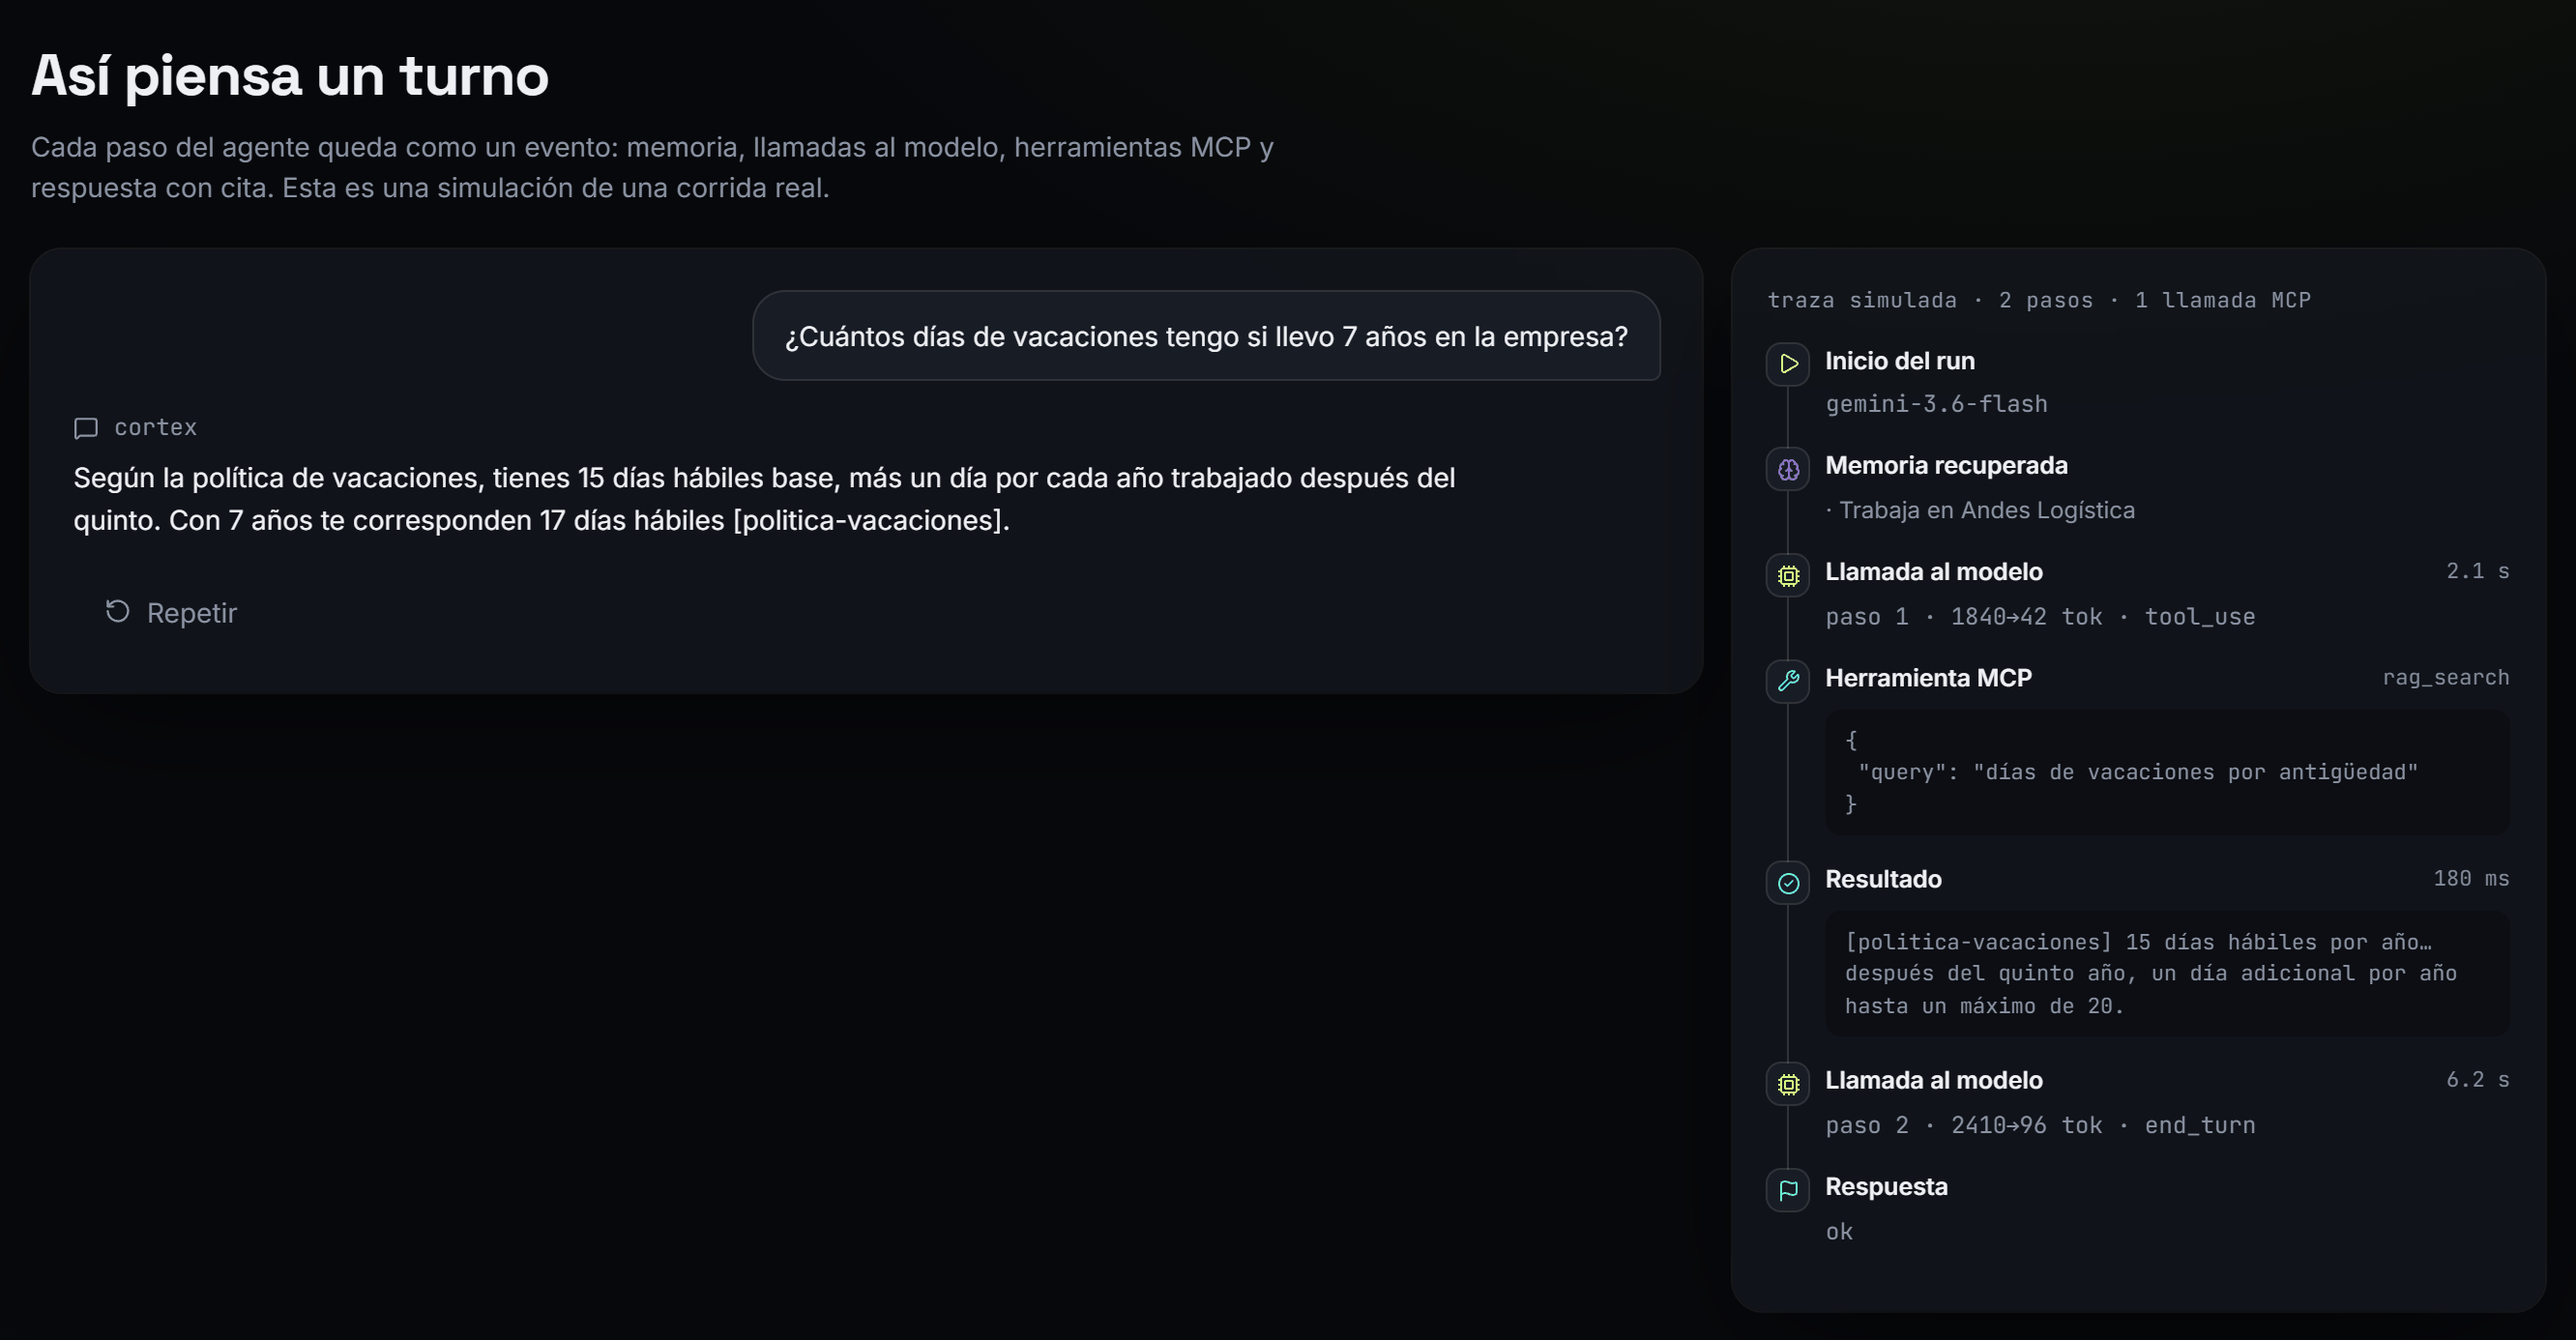
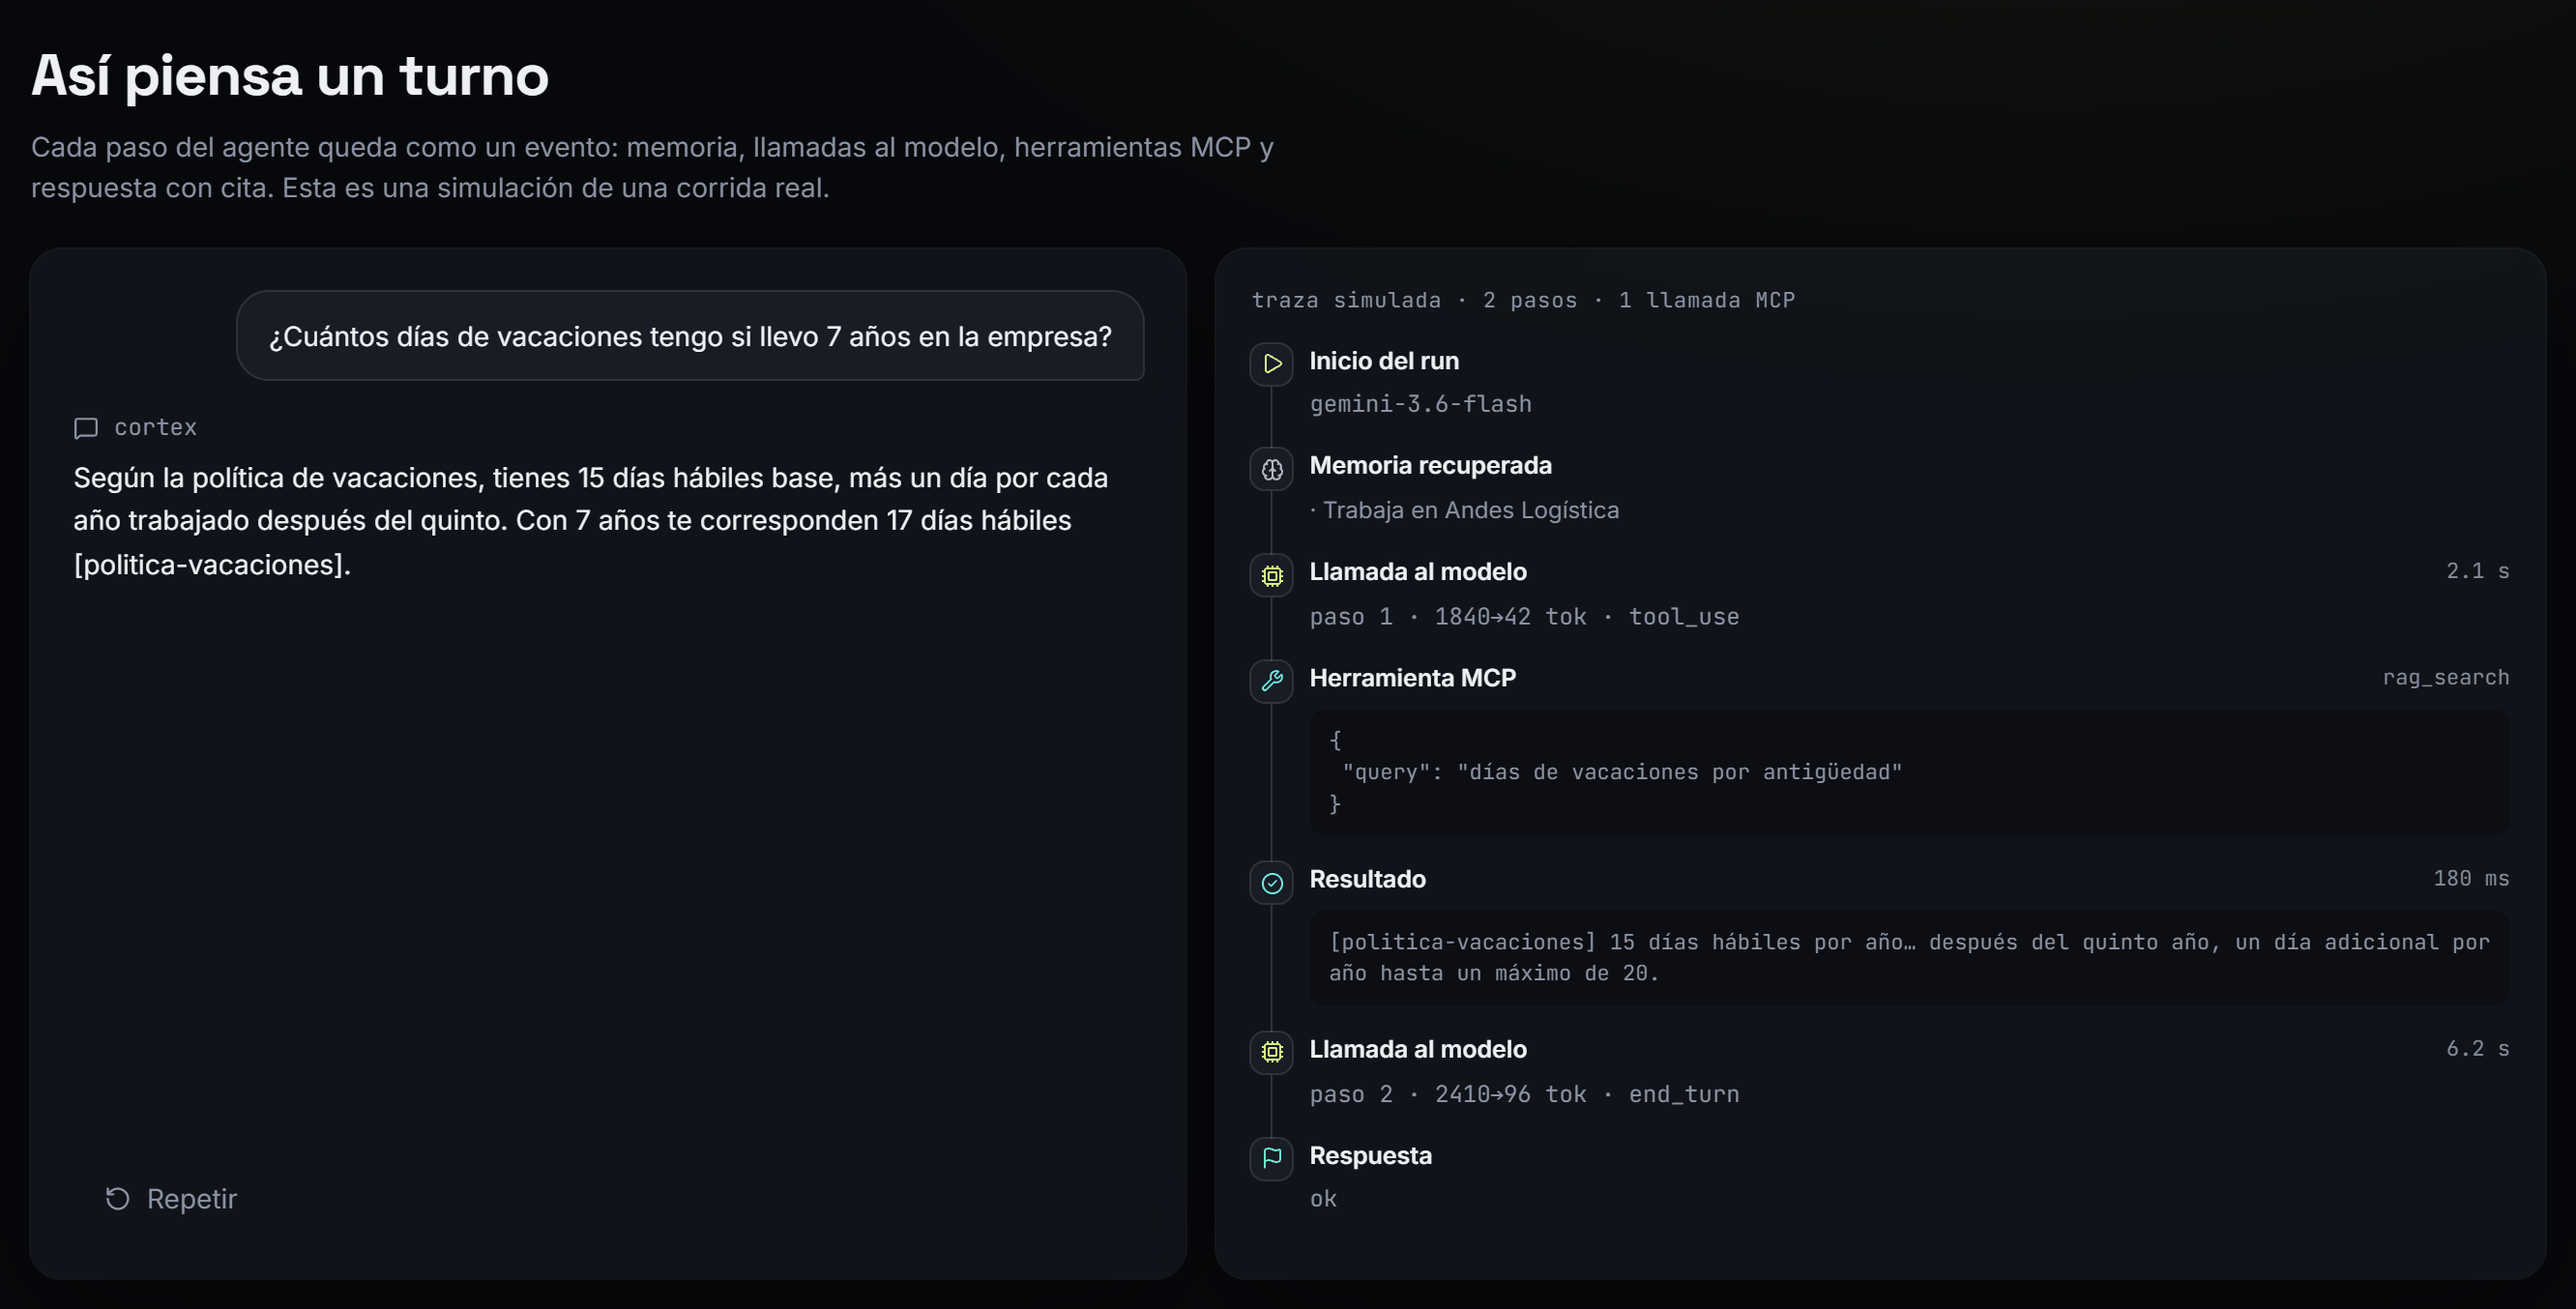
Inicio: oculta cifras en 0 y equilibra la traza; capturas y GIF nuevos
- Las cifras del hero que valen 0 no se muestran: el contador solo anima datos reales.
- La tarjeta del chat ocupa la misma altura que la traza, con Repetir al pie, y la traza es más ancha y más baja.
- inicio.png, inicio-traza.png e inicio-demo.gif regenerados (GIF de 4,1 MB y 18 s).

diff --git a/frontend/src/styles.css b/frontend/src/styles.css
@@ -152,13 +152,14 @@ code, pre, .mono { font-family: var(--mono); }
 .pending .reveal-item { opacity: 0; }
 /* `backwards`, not `both`: once finished the animation lets go of transform so the hover lift still works. */
 .revealed .reveal-item { animation: rise 0.6s cubic-bezier(0.2, 0.7, 0.2, 1) backwards; }
-.trace-demo { display: grid; grid-template-columns: minmax(0, 1fr) minmax(0, 420px); gap: 16px; align-items: start; }
-.td-chat { display: flex; flex-direction: column; gap: 16px; padding: 22px; position: sticky; top: 24px; }
+/* A wider trace column keeps it short; the chat card stretches to the trace height like a chat window, with Repetir at the foot. */
+.trace-demo { display: grid; grid-template-columns: minmax(0, 1fr) minmax(0, 1.15fr); gap: 16px; align-items: stretch; }
+.td-chat { display: flex; flex-direction: column; gap: 16px; padding: 22px; }
 .td-chat .msg { animation: none; }
 .td-answer { margin: 0; line-height: 1.6; }
 .td-answer .ghost { visibility: hidden; }
 .td-answer .caret { display: inline-block; width: 7px; height: 1em; margin-left: 1px; vertical-align: -2px; background: var(--accent); animation: blink 1s infinite; }
-.td-replay { align-self: flex-start; }
+.td-replay { align-self: flex-start; margin-top: auto; }
 .td-stack { display: grid; }
 .td-stack > * { grid-area: 1 / 1; }
 .td-stack > .ghost { visibility: hidden; }
@@ -317,7 +318,6 @@ code, pre, .mono { font-family: var(--mono); }
   .chat { grid-template-columns: 1fr; height: calc(100vh - 62px); }
   .chat-list { display: none; }
   .trace-demo { grid-template-columns: 1fr; }
-  .td-chat { position: static; }
   .traces, .catalog { grid-template-columns: 1fr; }
   .filters { position: static; flex-direction: row; flex-wrap: wrap; }
   .filters h4 { display: none; }

diff --git a/frontend/src/pages/Home.tsx b/frontend/src/pages/Home.tsx
@@ -83,12 +83,17 @@ export default function Home() {
         </div>
         {stats && (
           <div className="hero-stats">
-            <span><CountUp value={stats.documents} />documentos</span>
-            <span><CountUp value={stats.chunks} />fragmentos</span>
-            <span><CountUp value={stats.memories} />memorias</span>
-            <span><CountUp value={stats.runs} />runs</span>
-            <span><CountUp value={stats.tool_calls} />llamadas MCP</span>
-            <span><CountUp value={stats.cost_usd} format={fmtUsd} />costo total</span>
+            {/* Zero metrics are hidden: a count-up that ends at 0 says nothing on a fresh install. */}
+            {([
+              [stats.documents, 'documentos'],
+              [stats.chunks, 'fragmentos'],
+              [stats.memories, 'memorias'],
+              [stats.runs, 'runs'],
+              [stats.tool_calls, 'llamadas MCP'],
+              [stats.cost_usd, 'costo total', fmtUsd],
+            ] as [number, string, ((n: number) => string)?][]).filter(([v]) => v > 0).map(([v, label, fmt]) => (
+              <span key={label}><CountUp value={v} format={fmt} />{label}</span>
+            ))}
           </div>
         )}
       </SwarmCursor>

diff --git a/README.md b/README.md
@@ -34,7 +34,7 @@ flowchart LR
 
 | | |
 |---|---|
-| ![Inicio](docs/img/inicio.png) **Inicio**: el enjambre de partículas sigue al cursor detrás del titular, y las cifras salen de la base real. | ![Así piensa un turno](docs/img/inicio-traza.png) **Así piensa un turno**: una traza simulada con el mismo componente de Trazas; los pasos aparecen uno a uno y la respuesta se teclea. |
+| ![Inicio](docs/img/inicio.png) **Inicio**: el enjambre de partículas sigue al cursor detrás del titular, y las cifras salen de la base real (las que valen 0 se ocultan). | ![Así piensa un turno](docs/img/inicio-traza.png) **Así piensa un turno**: una traza simulada con el mismo componente de Trazas; los pasos aparecen uno a uno y la respuesta se teclea. |
 | ![Mapa RAG](docs/img/rag.png) **Mapa RAG**: cada fragmento proyectado en 2D; la consulta cae en el mapa y se iluminan los vecinos recuperados, con su puesto en la búsqueda vectorial y en BM25. | ![Memoria](docs/img/memoria.png) **Memoria**: grafo de fuerzas agrupado por tipo de hecho, con aristas entre hechos de significado parecido. |
 | ![Evals](docs/img/evals.png) **Evals**: mapa de calor de casos × corridas; al hacer clic en una celda se ven las métricas y la salida. | ![Herramientas](docs/img/herramientas.png) **Herramientas MCP**: catálogo con filtros por origen y servidor, parámetros del schema y uso real. |
 

diff --git a/docs/evidencias/README.md b/docs/evidencias/README.md
@@ -8,13 +8,13 @@ Revisión con Playwright y Edge sin interfaz, sobre los datos de ejemplo de `see
 |---|---|
 | Errores de consola (escritorio 1440 px, móvil 390 px, `prefers-reduced-motion`, sin JS) | 0 en los cuatro casos |
 | Scroll horizontal | 0 px en 1440 y en 390 |
-| Traza "Así piensa un turno" | 7 pasos y respuesta completa; la sección siguiente no se mueve mientras se llena (672 px de distancia antes y después) |
+| Traza "Así piensa un turno" | 7 pasos y respuesta completa; la sección siguiente no se mueve mientras se llena (655 px de distancia antes y después) |
 | `prefers-reduced-motion` | Pasos, respuesta y tarjetas visibles desde la carga |
 | Sin JavaScript | Aviso con una descripción breve, sobre fondo oscuro |
 | Tests del backend | 26 en verde (`tests.txt`) |
 | Build del frontend | `npm run build` en verde |
 
-Capturas: `docs/img/inicio.png`, `docs/img/inicio-traza.png` y `docs/img/inicio-demo.gif` (17,6 s a ritmo real).
+Capturas: `docs/img/inicio.png`, `docs/img/inicio-traza.png` y `docs/img/inicio-demo.gif` (18 s a ritmo real).
 
 ## Prueba con Gemini y traductor en el repo (2026-11-06)
 
